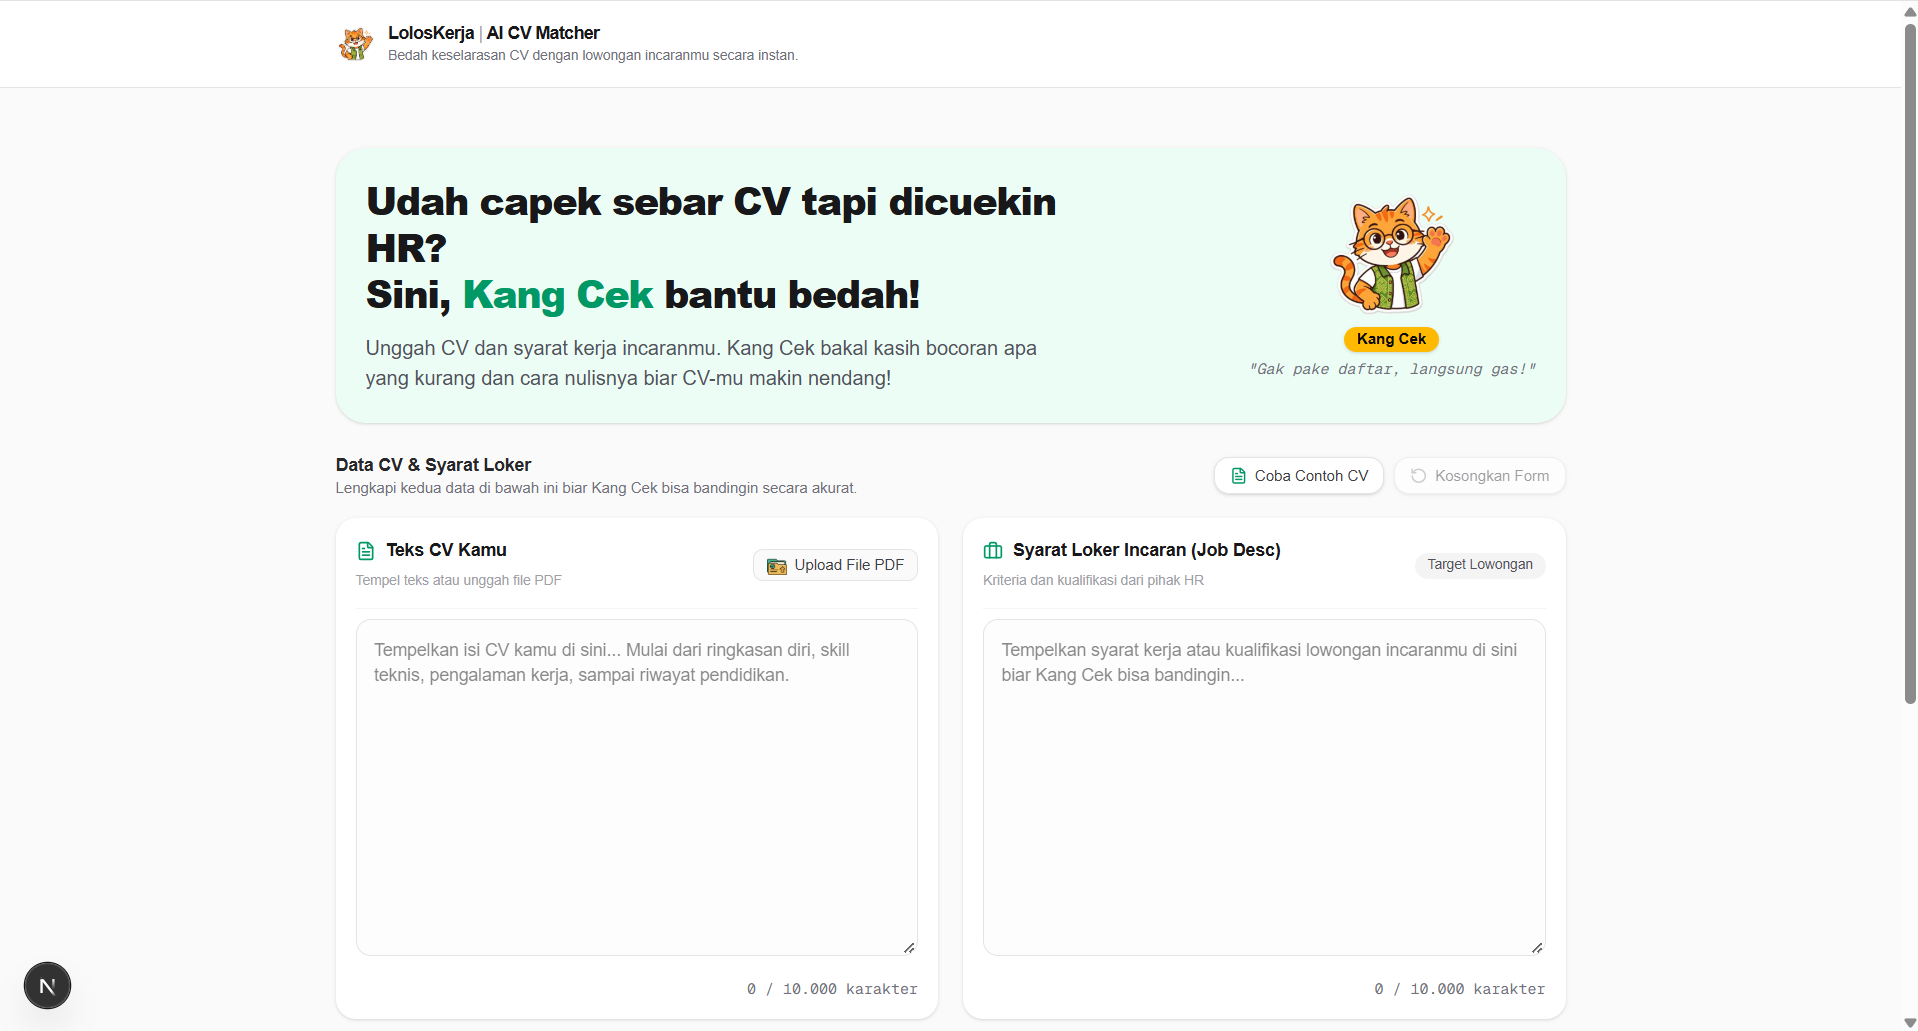
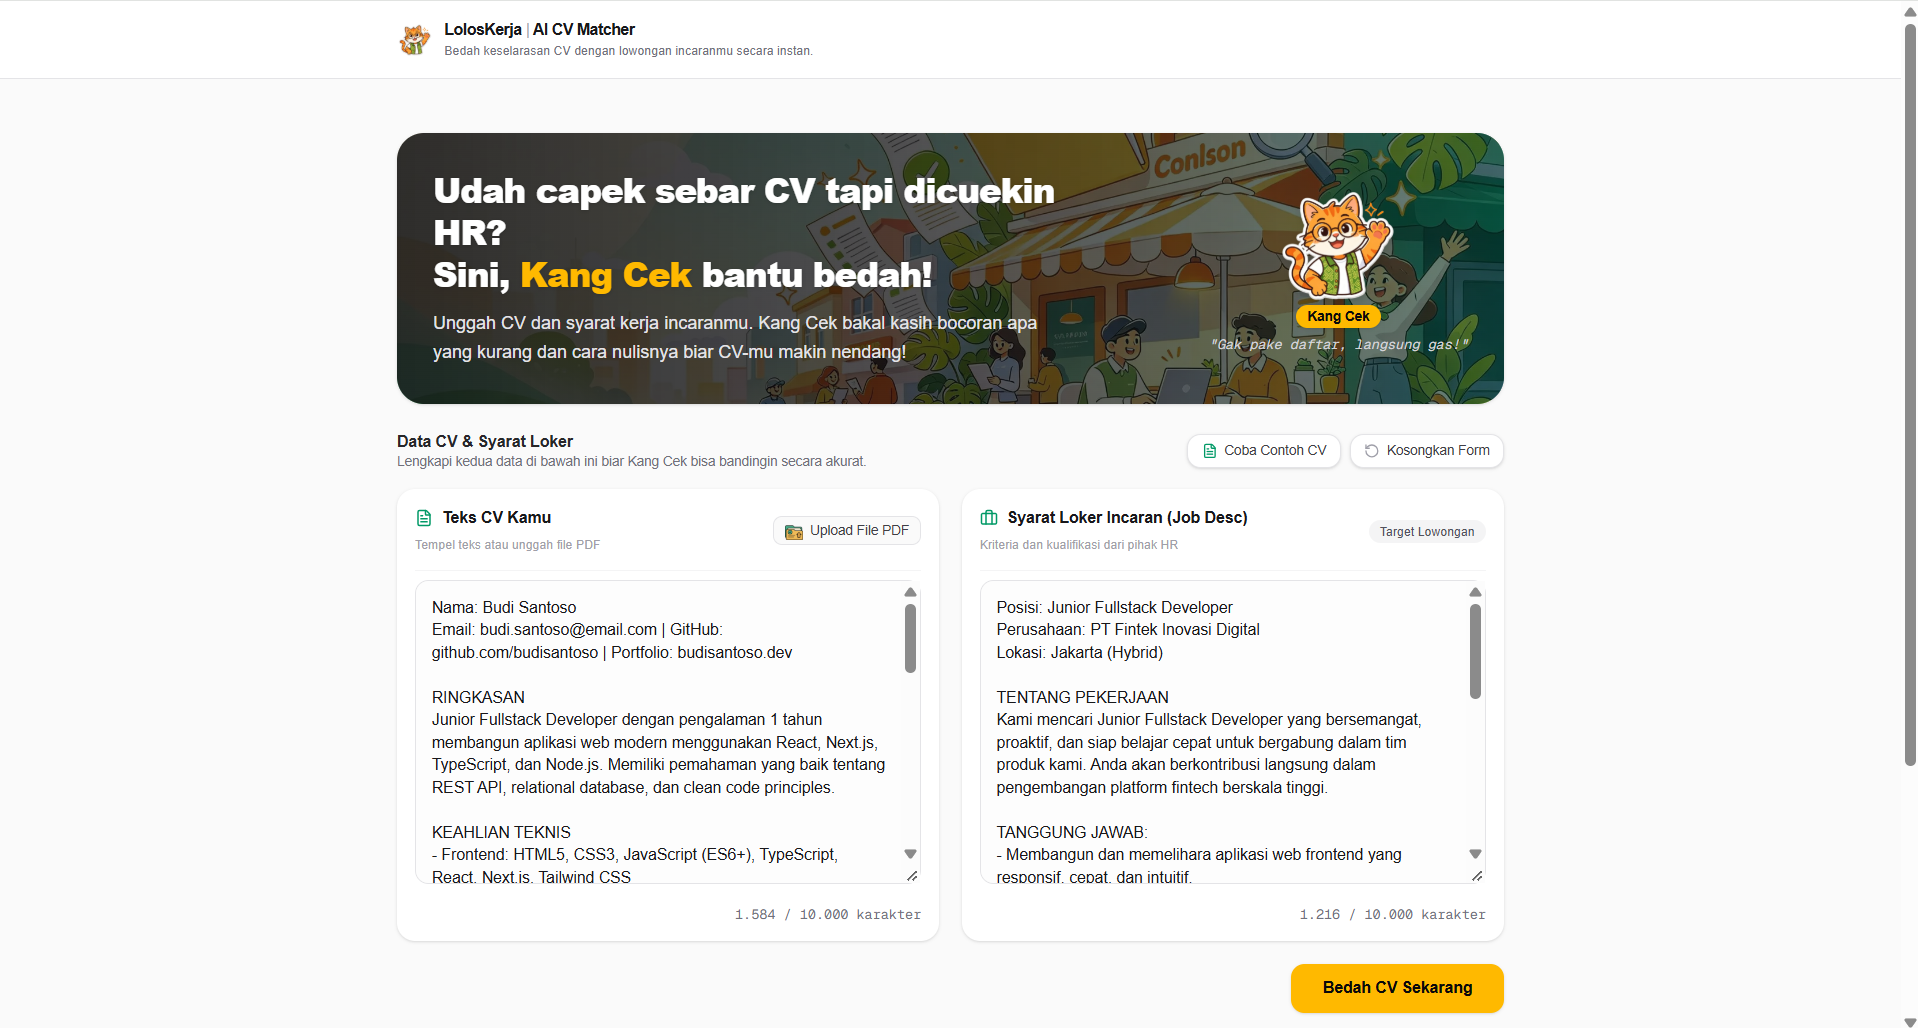
feat: update README with new live demo link and add additional preview image

diff --git a/README.md b/README.md
@@ -10,11 +10,12 @@
 
 Berbeda dengan *chatbot* AI generik yang hanya mengembalikan paragraf teks panjang, LolosKerja membedah CV menjadi laporan audit terstruktur, lengkap dengan skor kecocokan ATS, matriks pemetaan *skill*, serta rekomendasi penulisan ulang poin pengalaman yang siap salin, dibalut dengan antarmuka ramah pengguna dan *microcopy* khas Indonesia bersama maskot **Kang Cek**.
 
-🔗 **Live Demo:** `https://.vercel.app`
+🔗 **Live Demo:** `loloskerja-ai-cv-matcher.vercel.app`
 
 ---
 <p align="center">
   <img src="src/assets/preview.png" alt="Preview LolosKerja" width="100%">
+  <img src="src/assets/preview1.png" alt="Preview LolosKerja" width="100%">
 </p>
 
 ## Fitur Utama
